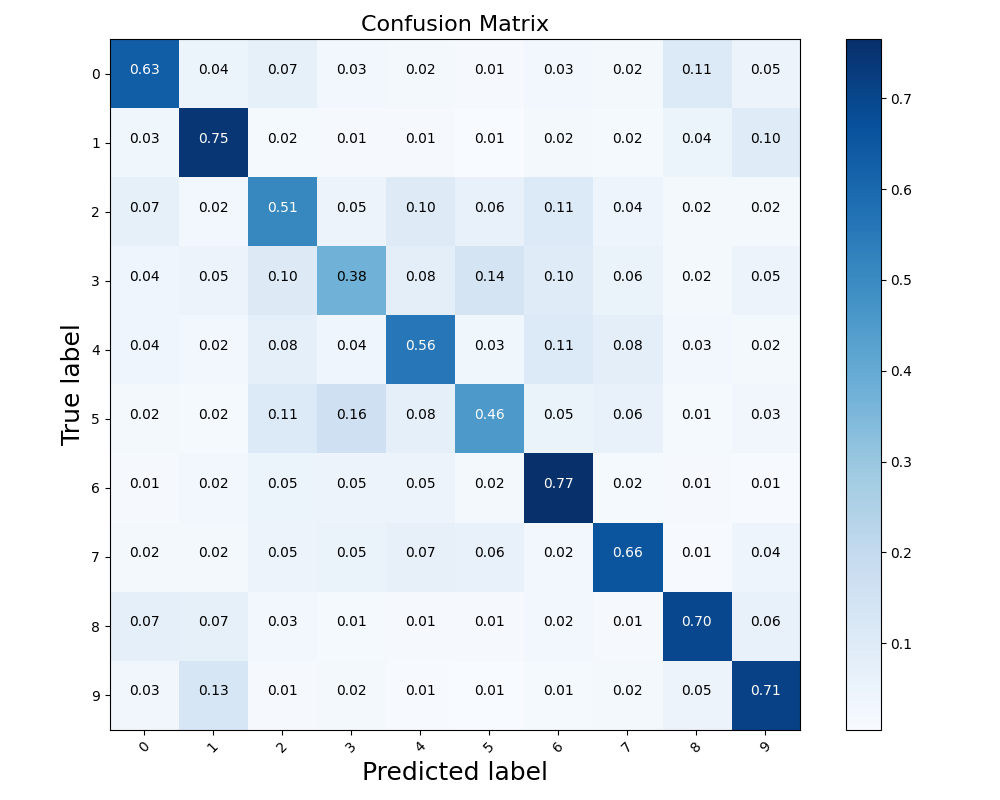
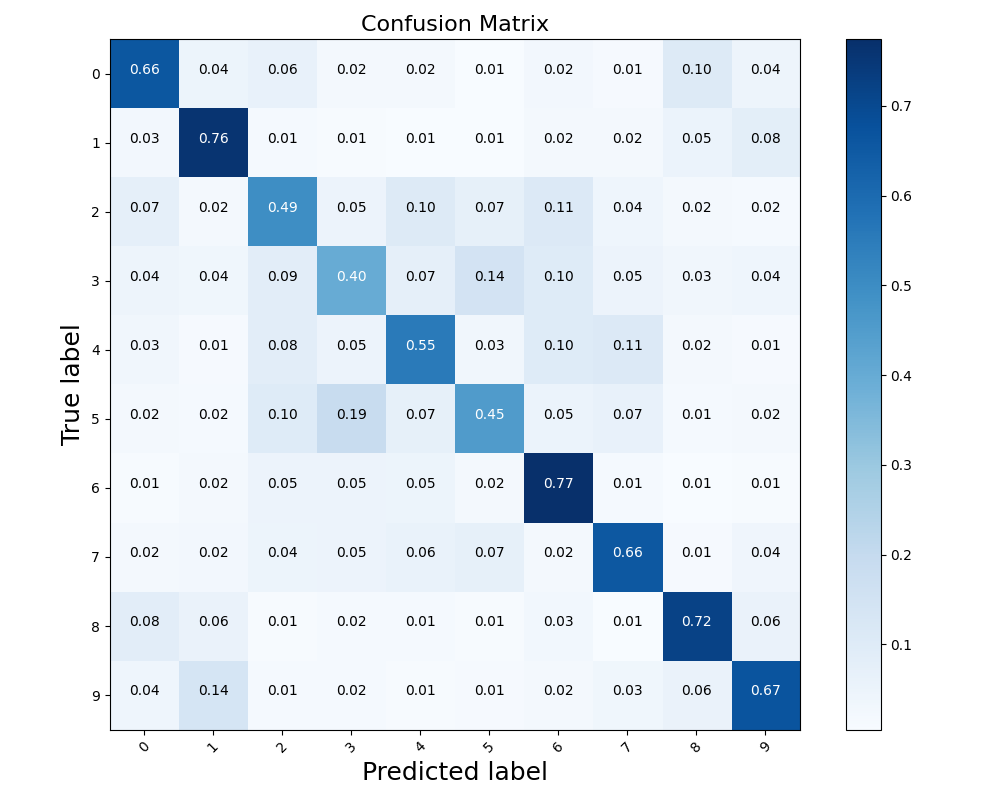
Update Experiment
Comparison (Batch Size: 5000)

diff --git a/CIFAR10/main.py b/CIFAR10/main.py
@@ -29,9 +29,9 @@ def parse_arg():
     parser.add_argument('-kernel_sizes', choices=["3,3,3", "5,5"], default="5,5")  # Kernels size for each stage
     parser.add_argument('-num_kernels', choices=["5,15", "31,63,127"], default="31,63")  # num_kernels = "31,63" if dataset != "MNIST" else "5,15"
     parser.add_argument('-energy_percent', type=float, default=None)  # Energy to be preserved in each stage
-    parser.add_argument('-num_samples_per_batch', type=int, default=10000) # Num of new samples per batch
-    parser.add_argument('-PCA_method_1st', choices=["sklearn", "svd", "GPU", "IPCA", "GPU_IPCA"], default="IPCA")  # Methods to perform pca at 1st layer
-    parser.add_argument('-PCA_method_2nd', choices=["sklearn", "svd", "GPU", "IPCA", "GPU_IPCA"], default="IPCA")  # Methods to perform pca at 2nd layer
+    parser.add_argument('-num_samples_per_batch', type=int, default=5000) # Num of new samples per batch
+    parser.add_argument('-PCA_method_1st', choices=["sklearn", "svd", "GPU", "IPCA", "GPU_IPCA"], default="GPU_IPCA")  # Methods to perform pca at 1st layer
+    parser.add_argument('-PCA_method_2nd', choices=["sklearn", "svd", "GPU", "IPCA", "GPU_IPCA"], default="GPU_IPCA")  # Methods to perform pca at 2nd layer
     parser.add_argument('-gpu_partition', type=int, default=5) # Num of partitions for GPU IPCA
     parser.add_argument('-print_detail', action='store_true', default=False)  # Print details of the process?
 
@@ -85,7 +85,6 @@ def main():
     print('1st layer PCA method:', opt.PCA_method_1st)
     print('2nd layer PCA method:', opt.PCA_method_2nd)
     print('Use IPCA:', use_ipca)
-    print('IPCA Partition:', IPCA_partition)
     print('Device:', device)
     if (device == "GPU"):
         print('GPU partition:', gpu_partition)
@@ -129,7 +128,7 @@ def main():
             pca_params = get_kernel_online(dataset, images, labels, kernel_sizes, num_kernels, pca_params,
                                            pca_method_1st=opt.PCA_method_1st, pca_method_2nd=opt.PCA_method_2nd,
                                            use_classes=use_classes.tolist(), random_seed=opt.random_seed,
-                                           print_detail=opt.print_detail, energy_percent=opt.energy_percent)
+                                           print_detail=opt.print_detail)
 
 
 

diff --git a/CIFAR10/Comparison.py b/CIFAR10/Comparison.py
@@ -30,7 +30,7 @@ def parse_arg():
     parser.add_argument('-kernel_sizes', choices=["3,3,3", "5,5"], default="5,5")  # Kernels size for each stage
     parser.add_argument('-num_kernels', choices=["5,15", "31,63,127"], default="31,63")  # num_kernels = "31,63" if dataset != "MNIST" else "5,15"
     parser.add_argument('-energy_percent', type=float, default=None)  # Energy to be preserved in each stage
-    parser.add_argument('-num_samples_per_batch', type=int, default=10000) # Num of new samples per batch
+    parser.add_argument('-num_samples_per_batch', type=int, default=5000) # Num of new samples per batch
     # parser.add_argument('-IPCA_partition', type=int, default=2)
     # parser.add_argument('-PCA_method_1st', choices=["sklearn", "svd", "GPU", "IPCA", "GPU_IPCA"], default="IPCA")  # Methods to perform pca at 1st layer
     # parser.add_argument('-PCA_method_2nd', choices=["sklearn", "svd", "GPU", "IPCA", "GPU_IPCA"], default="IPCA")  # Methods to perform pca at 2nd layer
@@ -70,7 +70,7 @@ def main():
     energy_percent = opt.energy_percent
 
     PCA_method = ["sklearn", "GPU", "IPCA", "GPU_IPCA"]
-    # PCA_method = ["IPCA", "GPU_IPCA"]
+    # PCA_method = ["GPU_IPCA"]
 
     stage_time = np.zeros([len(PCA_method), total_stage])
     get_kernel_time = np.zeros([len(PCA_method), total_stage])

diff --git a/MNIST/Comparison.py b/MNIST/Comparison.py
@@ -30,7 +30,7 @@ def parse_arg():
     parser.add_argument('-kernel_sizes', choices=["3,3,3", "5,5"], default="5,5")  # Kernels size for each stage
     parser.add_argument('-num_kernels', choices=["5,15", "31,63,127"], default="5,15")  # num_kernels = "31,63" if dataset != "MNIST" else "5,15"
     parser.add_argument('-energy_percent', type=float, default=None)  # Energy to be preserved in each stage
-    parser.add_argument('-num_samples_per_batch', type=int, default=10000) # Num of new samples per batch
+    parser.add_argument('-num_samples_per_batch', type=int, default=5000) # Num of new samples per batch
     # parser.add_argument('-IPCA_partition', type=int, default=2)
     # parser.add_argument('-PCA_method_1st', choices=["sklearn", "svd", "GPU", "IPCA", "GPU_IPCA"], default="IPCA")  # Methods to perform pca at 1st layer
     # parser.add_argument('-PCA_method_2nd', choices=["sklearn", "svd", "GPU", "IPCA", "GPU_IPCA"], default="IPCA")  # Methods to perform pca at 2nd layer

diff --git a/MNIST/Toolbox.py b/MNIST/Toolbox.py
@@ -172,7 +172,7 @@ def comparisonPlot(opt, time, method, timeType, remove_path=False):
         plt.plot(x, time[l], label=method[l], color=color[l], marker='o')
         plt.legend(loc='upper left', fontsize=16)
 
-    save_path = './Comparison'
+    save_path = './Comparison/BatchSize_{}/'.format(opt.num_samples_per_batch)
     path_check(save_path, remove_path=remove_path)
     plt.savefig(save_path + '/{}.png'.format(timeType))
 

diff --git a/CIFAR10/Toolbox.py b/CIFAR10/Toolbox.py
@@ -173,6 +173,6 @@ def comparisonPlot(opt, time, method, timeType, remove_path=False):
         plt.plot(x, time[l], label=method[l], color=color[l], marker='o')
         plt.legend(loc='upper left', fontsize=16)
 
-    save_path = './Comparison'
+    save_path = './Comparison/BatchSize_{}/'.format(opt.num_samples_per_batch)
     path_check(save_path, remove_path=remove_path)
     plt.savefig(save_path + '/{}.png'.format(timeType))

diff --git a/CIFAR10/IPCA.py b/CIFAR10/IPCA.py
@@ -34,6 +34,7 @@ def IPCA(Q_old=None, n=None, x_new=None, mean_old=None, sqs_old=None, use_gpu=Fa
 
     Q_new, mean_new, sqs_new, sigma_new, z_new, n, gamma = UpdateQ(Q_old, x_new, n, mean_old, sqs_old)
     covariance_matrix = Q_new
+    covariance_matrix[torch.isnan(covariance_matrix)] = 0
 
     u, s, v = torch.svd(covariance_matrix)
     coeff = v

diff --git a/MNIST/IPCA.py b/MNIST/IPCA.py
@@ -34,6 +34,7 @@ def IPCA(Q_old=None, n=None, x_new=None, mean_old=None, sqs_old=None, use_gpu=Tr
 
     Q_new, mean_new, sqs_new, sigma_new, z_new, n, gamma = UpdateQ(Q_old, x_new, n, mean_old, sqs_old)
     covariance_matrix = Q_new
+    covariance_matrix[torch.isnan(covariance_matrix)] = 0
 
     u, s, v = torch.svd(covariance_matrix)
     coeff = v
